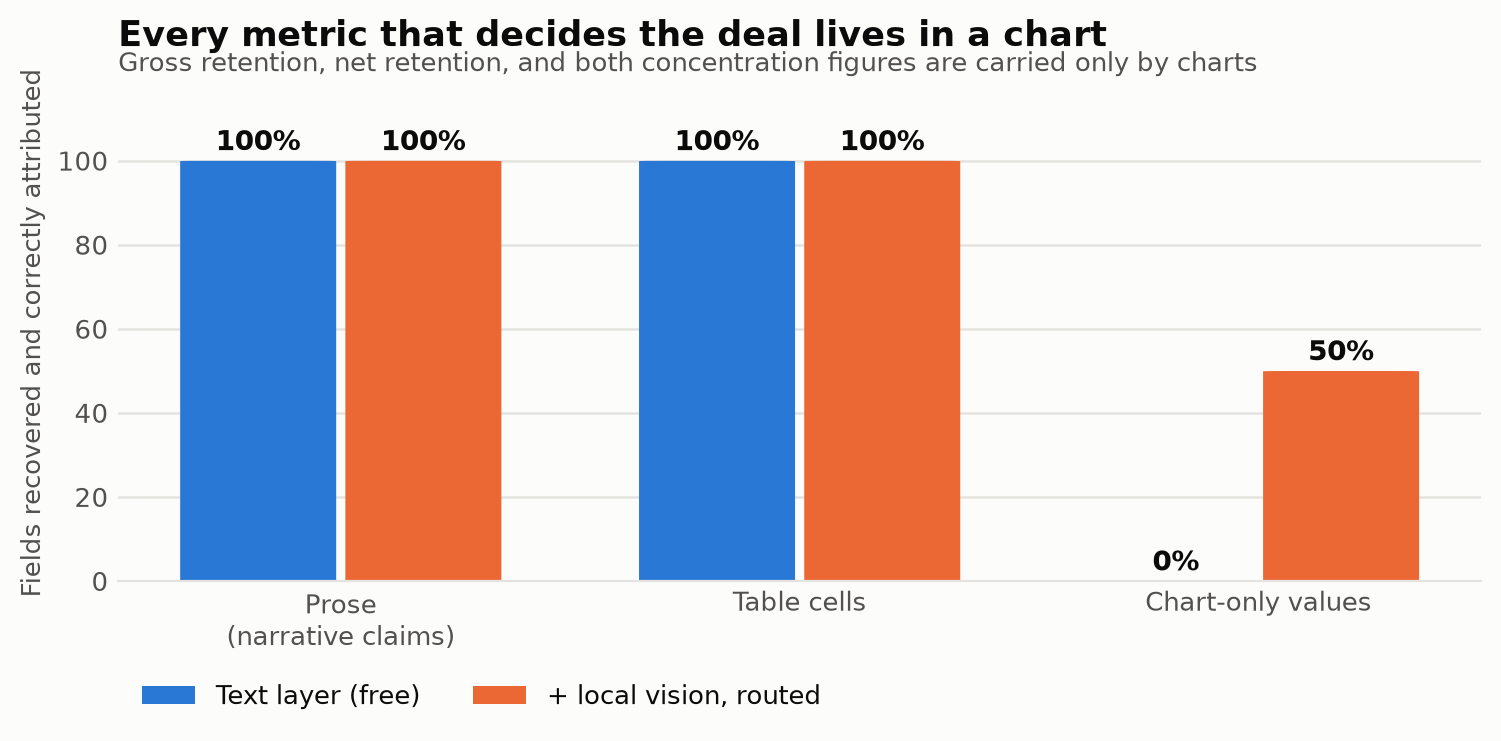
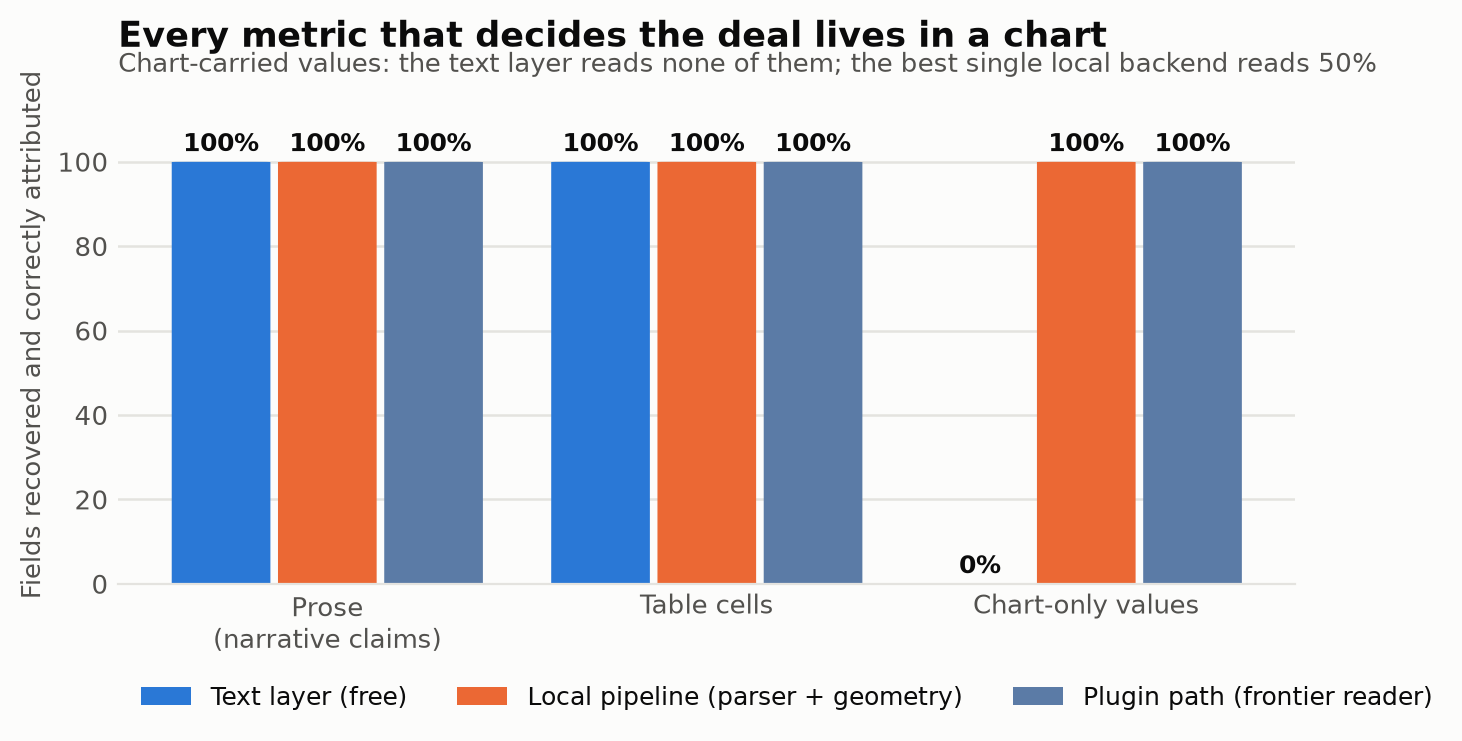
v4.0.0: the research pass, the third substrate in the figures, and the version entry
The walkthrough gave the research stage three lines, which undersold the only
part of the workflow the repo could not already do. It now carries the
method: scope, then four typed passes - benchmark, comparable, trend, and a
mandatory critical pass that asks what would make the number worse - then a
coverage gate, then a grounded write ending in its limitations.

Runs it for real rather than describing it. reports/market_context_T05.md is
a worked pass on the sample target, and its most useful output is a refusal:
no agriculture-specific retention band exists in accessible sources, so it
says so and labels the B2B proxy as a proxy. Against that proxy 81% sits
below the 84% median for a class of business that should be beating the
median. The rubric said "missed a floor by four points". The research said
"underperforms the peer set it should outperform". Same number, different
question to ask about it. The critical pass also found the ag cycle is in a
trough, which cuts both ways and is left as a contradiction rather than
resolved into a direction.

The Layer-P figure stopped at the local backends. It gains the plugin path,
and its middle bar now plots the production pipeline instead of a single
backend - that bar read 50% while the figure's own caption claimed the full
pipeline reaches 100%, which was a pre-existing contradiction between a chart
and its alt text. The discrimination chart deliberately keeps two bars: the
[…]

diff --git a/make_visuals.py b/make_visuals.py
@@ -28,6 +28,7 @@ ASSETS = ROOT / "assets"
 
 # Validated categorical slots 1-2 (light mode, surface #fcfcfb).
 S1, S2 = "#2a78d6", "#eb6834"
+S3 = "#5b7ba6"           # the third substrate: plugin path, measured out of band
 SURFACE = "#fcfcfb"
 INK = "#0b0b0b"          # text-primary
 INK_2 = "#52514e"        # text-secondary
@@ -73,37 +74,51 @@ def chart_layer_p() -> None:
     rep = json.loads((REPORTS / "layer_p.json").read_text(encoding="utf-8"))
     agg, backends = rep["aggregate"], rep["backends"]
     vision_b = next(b for b in backends if b != "textlayer")
+    sub = json.loads((REPORTS / "substrate_comparison.json").read_text(encoding="utf-8"))
+    sub_local = sub["by_carrier_pct"]["local_vision"]
 
     carriers = ["prose", "table", "chart"]
     labels = ["Prose\n(narrative claims)", "Table cells", "Chart-only values"]
     text_v = [agg.get(f"textlayer|{c}", {}).get("attributed_pct", 0) for c in carriers]
-    vis_v = [agg.get(f"{vision_b}|{c}", {}).get("attributed_pct", 0) for c in carriers]
+
+    # The middle bar is the PRODUCTION PIPELINE, not a single backend. Layer P grades
+    # each backend alone as a full-page reader, and on that basis the best local one
+    # reaches 50% of chart fields - it reads printed labels and drops axis interiors.
+    # The pipeline adds the chart specialist and pixel geometry on top and recovers
+    # all 20. Plotting the single-backend number here read as a claim the pipeline
+    # only half-works, which contradicted this figure's own caption.
+    single_backend_chart = agg.get(f"{vision_b}|chart", {}).get("attributed_pct", 0)
+    vis_v = [sub_local[c] for c in carriers]
+
+    # The third substrate: a frontier reader following the plugin's cim-read skill.
+    # Measured separately (reports/substrate_comparison.md) rather than through Layer P,
+    # because it needs a model with vision and Layer P is the offline harness.
+    agent_v = [sub["by_carrier_pct"]["agent"][c] for c in carriers]
 
     fig, ax = plt.subplots(figsize=(7.6, 3.9))
     xs = list(range(len(carriers)))
-    w = 0.34
+    w = 0.26
     gap = 0.02  # 2px-equivalent surface gap between adjacent fills
-    _rounded_bars(ax, [x - w / 2 - gap / 2 for x in xs], text_v, w, S1, "Text layer (free)")
-    _rounded_bars(ax, [x + w / 2 + gap / 2 for x in xs], vis_v, w, S2,
-                  "+ local vision, routed")
-
-    for x, v in zip(xs, text_v):
-        ax.text(x - w / 2 - gap / 2, v + 2.5, f"{v:.0f}%", ha="center", fontsize=10,
-                fontweight="bold", color=INK)
-    for x, v in zip(xs, vis_v):
-        ax.text(x + w / 2 + gap / 2, v + 2.5, f"{v:.0f}%", ha="center", fontsize=10,
-                fontweight="bold", color=INK)
+    offs = [-(w + gap), 0.0, (w + gap)]
+    series = [(text_v, S1, "Text layer (free)"),
+              (vis_v, S2, "Local pipeline (parser + geometry)"),
+              (agent_v, S3, "Plugin path (frontier reader)")]
+    for off, (vals, colour, label) in zip(offs, series):
+        _rounded_bars(ax, [x + off for x in xs], vals, w, colour, label)
+        for x, v in zip(xs, vals):
+            ax.text(x + off, v + 2.5, f"{v:.0f}%", ha="center", fontsize=9,
+                    fontweight="bold", color=INK)
 
     ax.set_xticks(xs)
     ax.set_xticklabels(labels, fontsize=9.5)
     _style(ax, "Fields recovered and correctly attributed", 118)
     ax.set_title("Every metric that decides the deal lives in a chart",
                  fontsize=12.5, fontweight="bold", color=INK, pad=14, loc="left")
-    ax.text(0, 1.015, "Gross retention, net retention, and both concentration figures "
-                      "are carried only by charts", transform=ax.transAxes,
+    ax.text(0, 1.015, f"Chart-carried values: the text layer reads none of them; the best "
+                      f"single local backend reads {single_backend_chart:.0f}%", transform=ax.transAxes,
             fontsize=9.5, color=INK_2, va="bottom")
-    ax.legend(frameon=False, fontsize=9.5, loc="upper left",
-              bbox_to_anchor=(0.0, -0.16), ncol=2)
+    ax.legend(frameon=False, fontsize=9, loc="upper left",
+              bbox_to_anchor=(0.0, -0.16), ncol=3)
     fig.tight_layout()
     fig.savefig(ASSETS / "layer-p.png", dpi=200, bbox_inches="tight")
     plt.close(fig)

diff --git a/reports/market_context_T05.md b/reports/market_context_T05.md
@@ -1,0 +1,127 @@
+# Market context — T05 Ashgrove
+
+**Produced by the `market-context` skill, 2026-09-01.** A worked example of the four-phase
+research pass, run on the deciding metrics from the T05 screen.
+
+**The researcher never saw the CIM.** It received metric names, values, and the vertical. Nothing
+below was read out of the document.
+
+---
+
+## Phase 1 — Scope
+
+**Vertical:** grain handling and agricultural commodity management software. Narrower than "agtech"
+(which spans drones, biologicals and equipment) and narrower than "vertical SaaS".
+
+**As-of window:** last 12 months.
+
+| Metric | Value | Band needed | Why it decides |
+|---|---|---|---|
+| `grr_pct` | 81.0 | retention floor for this vertical | fails the 85% rubric floor; the criterion that cost the most weight |
+| `nrr_pct` | 86.0 | expansion norm | below the 100% target; read together with GRR it says the base is shrinking |
+| `yoy_growth_pct` | 2.0 | growth norm at this ARR | 2% growth with NRR below 100 means new logos are carrying everything |
+| `arr_usd` | 4,300,000 | size-to-multiple relationship | sits at the small end, where multiples compress |
+
+Concentration (11% / 28%) clears its caps and was not researched.
+
+## Phase 2 — Four typed passes
+
+### Benchmark
+
+**No agriculture-specific retention band was found.** Stating that is the finding; the nearest
+defensible proxy is the B2B SaaS distribution, used explicitly as a proxy and not as this
+vertical's band.
+
+| Measure | Bottom quartile | Median | Top quartile |
+|---|---|---|---|
+| GRR | 76% | **84%** | 91% |
+| NRR | <95% | **108%** | 125%+ |
+
+> "The median B2B SaaS company has a gross revenue retention rate of 84% — below the 85–90% mark
+> that signals strong retention, and down 4 points from 88% the year before."
+> — [Growth Spree, B2B SaaS NRR and GRR Benchmarks 2026](https://www.growthspreeofficial.com/blogs/b2b-saas-nrr-grr-net-gross-revenue-retention-benchmarks-2026-by-acv-stage-vertical) · practitioner tier · 2026
+
+**Vertical software should beat the horizontal median, not match it:** switching costs are higher
+and workflow integration runs deeper, so "if your NRR matches the horizontal median, you may be
+underperforming your actual peer set" (same source).
+
+### Comparable
+
+Agriculture software is a thin, fragmented public comp set — 63 SaaS companies in the category
+with combined revenue of ~$335.6M ([Latka](https://getlatka.com/companies/industries/i-agriculture-software),
+vendor tier, 2026-06), i.e. an average well under $10M. Named 2026 transactions are **hardware and
+biologicals, not commodity-management software**: SKK Holdings / Rantizo drone assets ($258.8M),
+TransFRESH / Hazel Technologies
+([iGrow News](https://igrownews.com/agtech-consolidation-ma-wave-2026/), 2026).
+
+**No clean software comparable was found at this size in this vertical.** Recorded as a gap.
+
+Broader private SaaS context: private ARR medians ~4–5x, and **deal size is the strongest single
+predictor of multiple** — the median roughly doubles between the $20–50M and $50–100M brackets
+([L40](https://www.l40.com/insights/saas-multiples), practitioner tier, 2026). At $4.3M ARR,
+Ashgrove sits well below that inflection.
+
+### Trend
+
+AgTech funding **peaked in 2022 and has contracted for three years**, and the 2026 M&A wave is the
+downstream consequence — ten acquisitions in May 2026, every one strategic, established operators
+buying stacks rather than building them
+([iGrow News](https://igrownews.com/agtech-consolidation-ma-wave-2026/), 2026). Exits are
+consolidation, not IPOs.
+
+### Critical — what would make this worse than the band suggests
+
+1. **The ag cycle is in a trough.** Farmer economics are pressured by low commodity prices
+   ([AgTech Navigator](https://www.agtechnavigator.com/Article/2026/01/28/why-agtech-start-ups-failed-last-year-and-a-playbook-for-2026/), 2026-01).
+   **This cuts both ways and the direction matters enormously:** 81% GRR during a trough may be
+   cyclical and recover, or may be structural and get worse when the cycle turns. Nothing in the
+   metrics distinguishes those.
+2. **Concentration risk is understated by the percentages.** Reliance on a few large farms or
+   enterprise accounts "amplifies churn impact and weakens negotiating leverage" (same source) —
+   and Ashgrove's disclosed top-five is 28%, inside the cap.
+3. **Differentiation decays without proprietary data or workflow lock-in**, because generic AI and
+   off-the-shelf tooling lower the barrier to entry (same source). This is the AI-exposure
+   question, and it is a pricing input.
+4. **Structural drag on the vertical:** slow-moving, fragmented, price-sensitive buyers, expensive
+   customer acquisition, and long sales cycles.
+
+## Phase 3 — Coverage gate
+
+- [x] Every deciding metric has a band **or a named gap** — GRR/NRR use a stated proxy; the
+      vertical-specific band is a gap; no software comparable found at this size
+- [x] No band rests on a single vendor-tier source
+- [x] M&A and VC multiples labelled separately
+- [x] Every claim dated inside the window
+- [x] The critical pass produced four real risks
+- [ ] **Contradiction carried, not averaged:** the ag-cycle finding cuts both ways and is left as
+      a question rather than resolved into a direction
+
+## Phase 4 — Where the numbers actually sit
+
+**Gross retention, 81%.** Below the rubric's 85% floor, and also below the **84% B2B median** —
+sitting between the bottom quartile (76%) and the median. For a *vertical* business, which should
+beat the horizontal median on switching costs, that is worse than the rubric alone shows. The
+rubric says "misses a floor by four points". The market says "underperforms the class it should
+be outperforming".
+
+**Net retention, 86%.** Below the **bottom quartile (<95%)** and 22 points under the 108% median.
+Read with 2% growth, the installed base is contracting and new logos are carrying the number.
+
+**ARR $4.3M.** Below the size bracket where multiples inflect.
+
+**What would have to be true for this to deserve the top of its band:** that the retention is
+cycle-driven rather than structural, that the grading-rules workflow is genuinely locked in rather
+than replicable with off-the-shelf tooling, and that the sub-scale ARR is a starting point rather
+than a ceiling. **None of those is answerable from the document.** All three are management-call
+questions.
+
+## Limitations
+
+- **No agriculture-specific retention band exists in accessible sources.** The B2B SaaS
+  distribution is a proxy, explicitly labelled, and it may be materially wrong for this vertical.
+- **No software comparable at this size in this vertical was found.** The named 2026 deals are
+  hardware and biologicals.
+- The Latka company count is vendor tier with no stated methodology.
+- Retention benchmarks come from a practitioner source, not a statistical agency.
+- **Context is not a verdict.** Nothing here changes a score or a tier. It changes what the
+  numbers mean, and what to ask about them.

diff --git a/README.md b/README.md
@@ -67,9 +67,13 @@ standards.
   named comparables, because a metric without a benchmark is not a screen. 81% gross
   retention means nothing until you know the band starts at 90%.
 
-**Review a real run, end to end.** Every artifact below is committed. No re-run
-needed. One target (Ashgrove, the most dangerous company in the corpus), the whole
-loop:
+**Review a real run, end to end.** Every artifact below is committed. No re-run needed.
+One target (Ashgrove, the most dangerous company in the corpus), the whole loop.
+
+**The process is the same on both paths; these artifacts came from the repo path**, because
+that is the one whose numbers re-derive offline. The plugin produces the same shapes — the
+market context below is the exception, and came from the plugin path, since researching needs
+the web.
 
 | Step | Artifact |
 |---|---|
@@ -77,6 +81,7 @@ loop:
 | the rubric it is judged against | [`reports/scorecard_template.md`](reports/scorecard_template.md) |
 | the scorecard | [`reports/scorecard_T05.md`](reports/scorecard_T05.md) - 97.7, tier 1, and one red-letter breach: gross retention 81% against an 85% floor |
 | the same scorecard, machine-readable | [`reports/findings.json`](reports/findings.json) |
+| the market context | [`reports/market_context_T05.md`](reports/market_context_T05.md) - the four-phase research pass: no agriculture-specific band exists, so it says so, and the proxy puts 81% below the median for a class that should beat it |
 | the drafted memo | [`reports/memo_T05.md`](reports/memo_T05.md) - call-out ids on every uncertain value, the chart values and their independent re-read, the questions for the seller |
 | the call-outs, machine-readable | [`reports/callouts_T05.json`](reports/callouts_T05.json) |
 | a human's review of that memo | [`reports/memo_T05_reviewed.md`](reports/memo_T05_reviewed.md), and the diff-captured session it produced: [`data/corrections/T05_session01.json`](data/corrections/T05_session01.json) |
@@ -131,15 +136,52 @@ becomes a definition conflict, not a rounding decision.
 It shows you every value with its read type and stops. You confirm or correct anything
 measured off an axis **before it is scored**. Answer in chat; it carries on from there.
 
-### 4 · Context
+### 4 · Research
 
-Market context for the deciding metrics: the benchmark band for the vertical, named
-comparables, and what would compress the multiple. Cited and dated.
+**A metric without a benchmark is not a screen.** 81% gross retention means nothing until
+you know where the band starts. So this stage is a scoped four-phase research pass, not a
+lookup — worked example in
+[`reports/market_context_T05.md`](reports/market_context_T05.md).
 
-The researcher **never sees the document**. It gets metric names, values, and the
-vertical — a confidential CIM must not end up in a web query, so that isolation is
-enforced by the agent's tool allowlist and asserted in `run_checks.py`, not promised in
-a paragraph.
+**Phase 1 · Scope.** Name the vertical as narrowly as the evidence will support, list only
+the metrics that move the tier, and state the as-of window. Metrics that decide nothing do
+not get researched.
+
+**Phase 2 · Four typed passes**, run separately because they ask different questions:
+
+| Pass | The question | Good output |
+|---|---|---|
+| Benchmark | What is normal here? | A range, dated, from a named source |
+| Comparable | What did similar businesses transact at? | Named deals, values, multiples |
+| Trend | Which way is this vertical moving? | Dated direction with a magnitude |
+| **Critical** | **What would make this worse than the band suggests?** | Specific, falsifiable risks |
+
+**The critical pass is not optional.** A context block that only found reasons the number
+looks fine has not been researched, it has been confirmed.
+
+Every finding is an atom, and no claim survives without all five fields — statement, source,
+URL, a verbatim quote under 125 characters, and a date — plus a tier: `primary` (a
+statistical agency, a filing, the transacting party), `practitioner` (a bank or research
+house publishing methodology), or `vendor` (anyone selling something adjacent).
+
+**Phase 3 · Coverage gate.** Every deciding metric has a band **or a named gap**. No band
+rests on a single vendor-tier source. M&A and VC multiples are labelled separately — they
+differ by 35–50% and conflating them inflates everything downstream. Contradictions are
+carried as contradictions, never averaged into a middle number no source supports.
+
+**Phase 4 · Write it grounded**, ending in the limitations. A context block whose
+limitations section is empty is not finished.
+
+The researcher **never sees the document**. It gets metric names, values, and the vertical —
+a confidential CIM must not end up in a web query, so that isolation is enforced by the
+agent's tool allowlist and asserted in `run_checks.py`, not promised in a paragraph.
+
+**And context is never a verdict.** It does not move a score or a tier. On T05 it found no
+agriculture-specific retention band exists at all — reported as a gap rather than papered
+over — and that against the nearest proxy, 81% sits below the 84% median for a class of
+business that should be *beating* that median. The rubric said "missed a floor by four
+points." The research said "underperforms the peer set it should outperform." Same number,
+different question to ask about it.
 
 ### 5 · ⏸ Gate — the scorecard, in context
 
@@ -270,12 +312,17 @@ concentration and top-five concentration: the metrics that decide whether to buy
 company. Revenue, margin and EBITDA, which a text layer reads perfectly, only tell
 you how big it is.
 
-![Recovery by field type: the text layer gets 100% of prose and table fields and 0% of chart-carried ones; the full pipeline lifts charts to 100%](assets/layer-p.png)
+![Recovery by field type across three substrates: the text layer gets 100% of prose and table fields and 0% of chart-carried ones; the local pipeline and the plugin path both reach 100% on all three](assets/layer-p.png)
 
 The same five companies, the same rules, the only difference being whether the
 pipeline could read a chart:
 
 ![Criteria fit scores by target: under a text-only read the clean company, the concentrated one and the leaking one all score 60; the full pipeline separates them to 100, 95 and 98](assets/discrimination.png)
+
+Only two bars here, deliberately: the plugin path reads the same values, so it produces
+the same scores. There is no third line to draw. The difference between substrates is
+cost and reproducibility, not what they see —
+[`reports/substrate_comparison.md`](reports/substrate_comparison.md).
 
 Three companies with materially different risk, one identical score. A text-only
 pipeline does not degrade gracefully. It goes blind exactly where the decision lives,

diff --git a/CHANGELOG.md b/CHANGELOG.md
@@ -1,5 +1,52 @@
 # Changelog
 
+## v4.0.0 — 2026-09-01
+
+The judgement layer becomes portable. Everything below is additive: the local
+pipeline is unchanged and still the path that publishes numbers.
+
+- **Packaged as a Claude Code plugin** (`plugins/deal-ready/`, registered in
+  `.claude-plugin/marketplace.json`). Three commands — `screen`, `review`,
+  `research` — four agents, six skills, and a copy of the rubric that
+  `run_checks.py` byte-compares against `criteria/default.json` so the two paths
+  cannot screen to different standards. It installs and runs with no clone, no
+  Python and no models.
+- **The isolation is enforced, not described.** Each agent carries a tool
+  allowlist: the page reader has no network and no write, the memo writer is the
+  only agent that can write, and the market researcher holds web tools and **never
+  receives the document** — a confidential CIM must not reach a web query. A check
+  fails the build if any of that changes.
+- **Reviewer mode** (`review.py`): you write the numbers, it checks them against
+  the source and reports three buckets — disagreed, agreed, and **could not
+  check**. The third is the safety property; a checker that only speaks when it
+  finds something teaches its user that silence means correct. Measured: 15 of 15
+  seeded errors caught, 0 false flags.
+- **Research mode**: a scoped four-phase pass — scope, then benchmark, comparable,
+  trend and a mandatory **critical** pass that asks what would make the number
+  worse. Every claim carries a URL, a verbatim quote, a date and a source tier.
+  Worked example at `reports/market_context_T05.md`, which found that no
+  agriculture-specific retention band exists and said so rather than reaching for
+  a nearby number.
+- **Both substrates measured on every chart-carried value: 20 of 20 exact each**
+  (`reports/substrate_comparison.md`). The corpus cannot separate them on accuracy,
+  so what distinguishes them is cost, hardware, and reproducibility — and only the
+  local path's numbers re-derive offline from committed pixels by a third party.
+- **A cold agent was given the repo and told to find the instructions**
+  (`reports/coldstart_test.md`). It screened the target correctly and then found
+  six defects, two of them serious: the documented entry path led away from the
+  plugin, and the scoring award rule was never stated — binary award gives 70 and
+  Tier 2 where proportional gives 97.7 and Tier 1. Both fixed; root `SKILL.md` is
+  deleted and `AGENTS.md` now names both paths.
+- **Fixed a suite that corrupted its own evidence.** The deterministic-path check
+  ran `screen.py --no-vision` straight into `reports/`, so every verification run
+  silently replaced the committed full run with a degraded one — the README quoted
+  97.7 while the artifacts said 60.0. `screen.py` gained `--reports-dir`, the check
+  writes to scratch, and a new check asserts the committed run is the full run.
+- The Layer-P figure gained the third substrate, and its middle bar now plots the
+  production pipeline rather than a single backend — it read as a claim the
+  pipeline half-works, contradicting the figure's own caption.
+- 19 checks, all green.
+
 ## v3.2.0 — 2026-08-24
 
 - The escalation ladder is gone. The bake-off that measured every candidate as a
